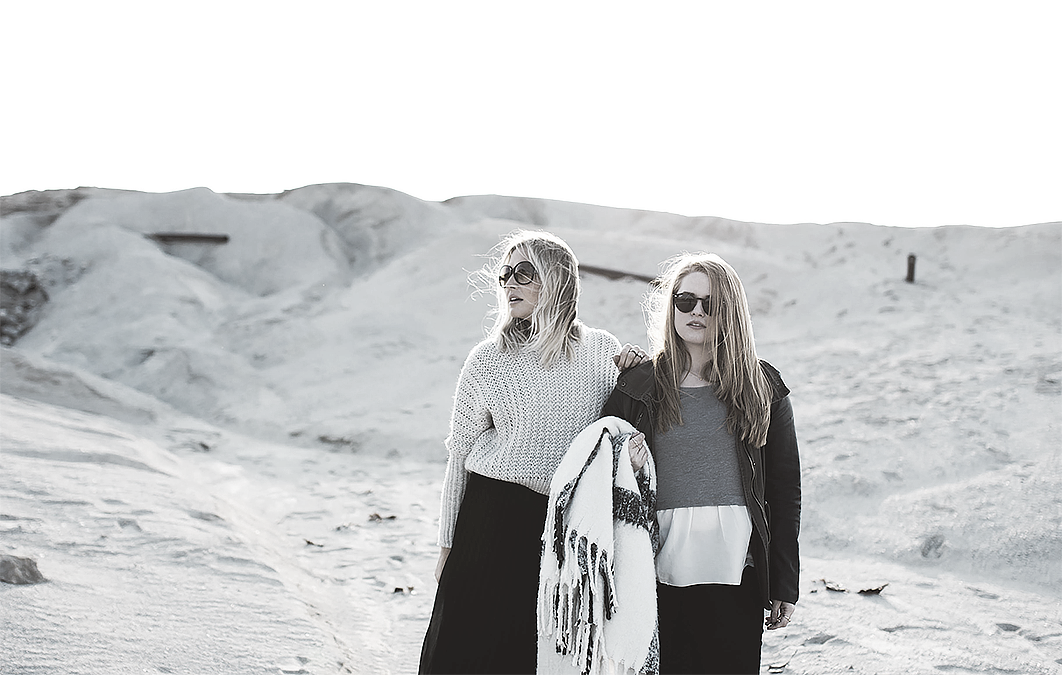
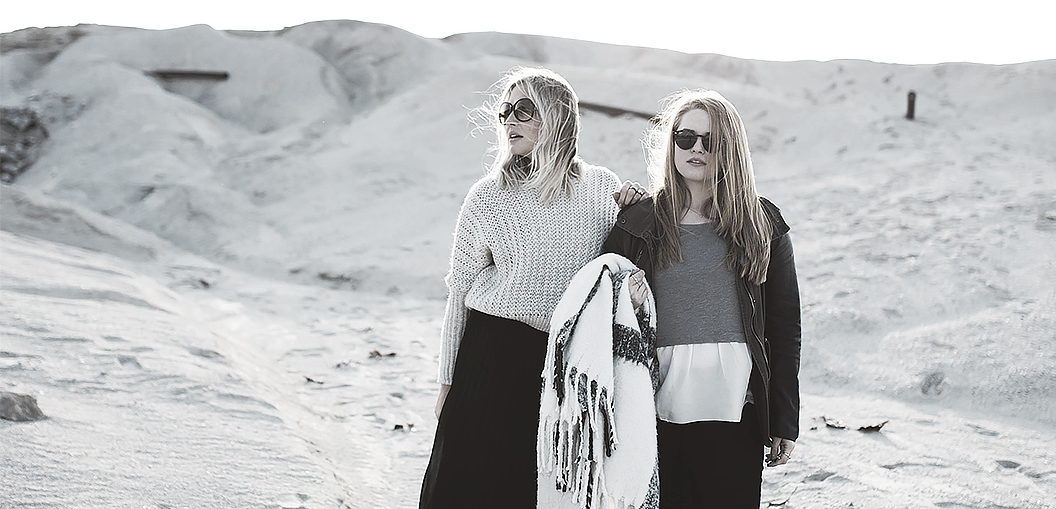
Indents were updated

diff --git a/Homework1/src/styles/style.css b/Homework1/src/styles/style.css
@@ -17,7 +17,7 @@ body{
 }
 
 .header{
-    margin-bottom: 10px;
+    margin-bottom: 46px;
 }
 
 .logo{
@@ -34,7 +34,7 @@ body{
     margin: 0;
     padding: 0;
     list-style: none;
-    font-family: Inconsolata;
+    font-family: Arial;
 }
 
 .menu__item {
@@ -51,11 +51,13 @@ body{
 }
 
 .main__photo {
-    margin-bottom: 70px;
+    z-index: -1;
+    width: 1062px;
+    margin-bottom: 91px;
 }
 
 .content {
-    margin: 0 40px 0 75px;
+    margin: 0 54px 0 80px;
     width: 650px;
     display: inline-block;
 }
@@ -65,9 +67,11 @@ body{
     color: #b4ad9e;
     font-family: "Arial";
     text-transform: uppercase;
+    margin: 0;
 }
 
 .content__title {
+    margin-top: 21px;
     font-size: 30px;
     color: #626262;
     font-family: "Arial";
@@ -82,8 +86,9 @@ body{
 }
 
 .content__photo {
-    width: 660px;
-    margin-bottom: 40px;
+    width: 661px;
+    height: 496px;
+    margin-bottom: 20px;
 }
 
 .sidebar {
@@ -97,7 +102,9 @@ body{
 }
 
 .about-author__photo {
-    margin-bottom: 20px;
+    margin: 0 0 24px 0;
+    width: 272px;
+    height: 177px;
 }
 
 .about-author__title {
@@ -105,7 +112,8 @@ body{
     line-height: 20px;
     color: #626262;
     font-family: "Arial";
-    margin-bottom: 15px;
+    margin: 0 0 18px 0;
+    padding: 0;
     font-weight: normal;
 }
 
@@ -125,16 +133,18 @@ body{
     color: #b4ad9e;
     font-family: "Arial";
     text-transform: uppercase;
+    margin: 0 0 30px 0;
 }
 
 .top-list {
     padding-left: 20px;
     color: #b4ac9e;
+    padding-left: 17px;
 }
 
 .top-list__item {
-    margin: 0 0 20px 0;
-    padding: 0;
+    margin: 0 0 27px 0;
+    padding-left: 11px;
 }
 
 .top-list__post-title {
@@ -156,7 +166,7 @@ body{
     width: 100%;
     background-color: #efefef;
     box-sizing: border-box;
-    margin-top: 230px;
+    margin-top: 212px;
     margin-bottom: 0;
 }
 
@@ -165,7 +175,7 @@ body{
     margin: 0 auto;
     box-sizing: border-box;
     width: 1200px;
-    padding: 30px 150px;
+    padding: 23px 150px;
 }
 
 .footer-list {
@@ -177,7 +187,6 @@ body{
 .footer-list__item {
     display: inline-block;
     font-size: 14px;
-    line-height: 24px;
     color: #000000;
     font-family: "Arial";
     margin-right: 20px;

diff --git a/Homework1/src/template/index.html b/Homework1/src/template/index.html
@@ -73,6 +73,5 @@
         </ul>
     </div>
 </div>
-
 </body>
 </html>
